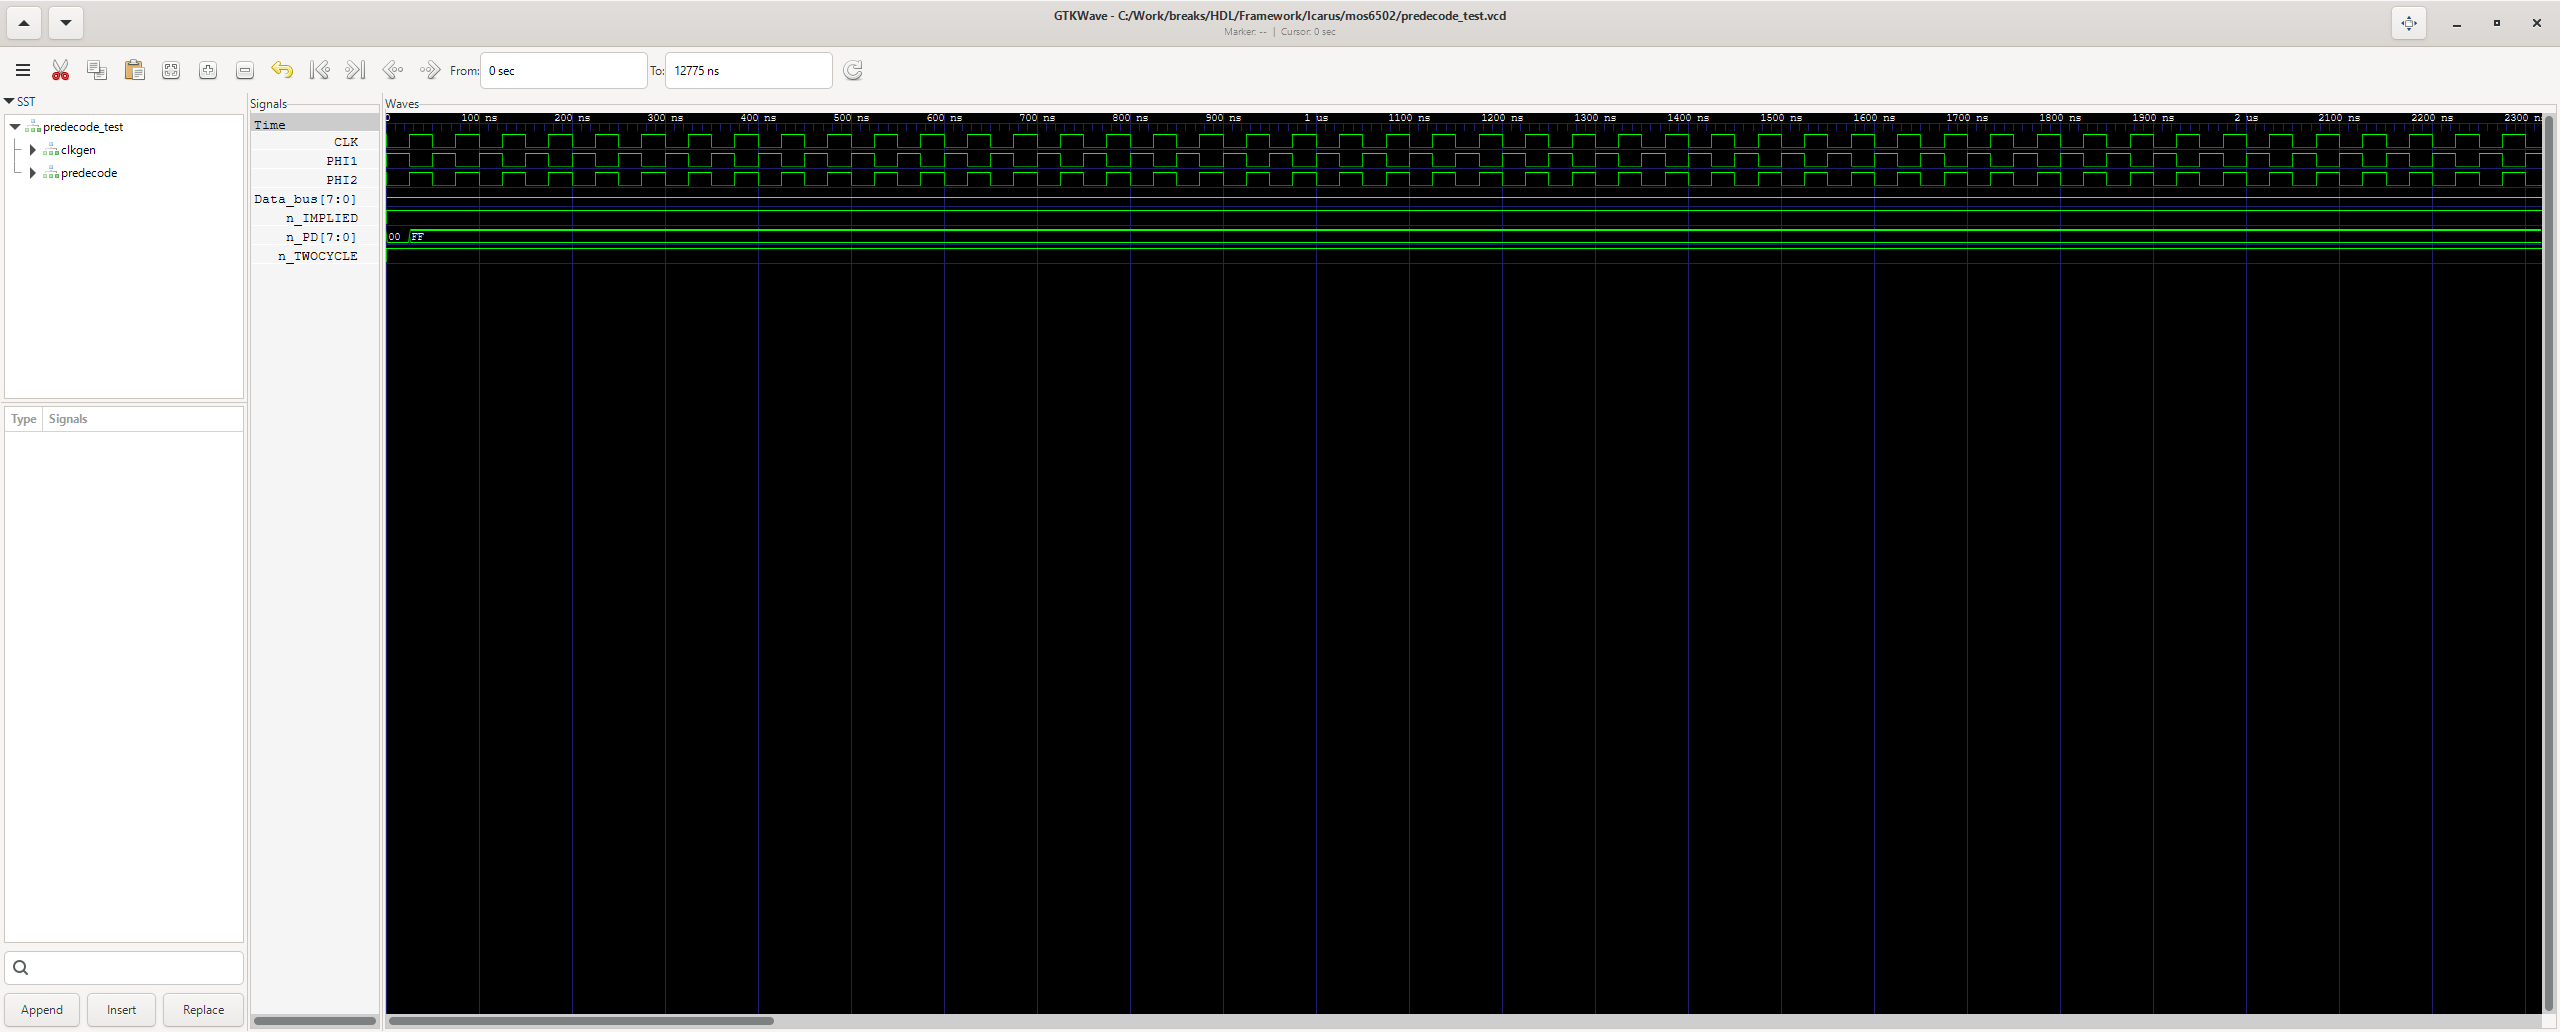
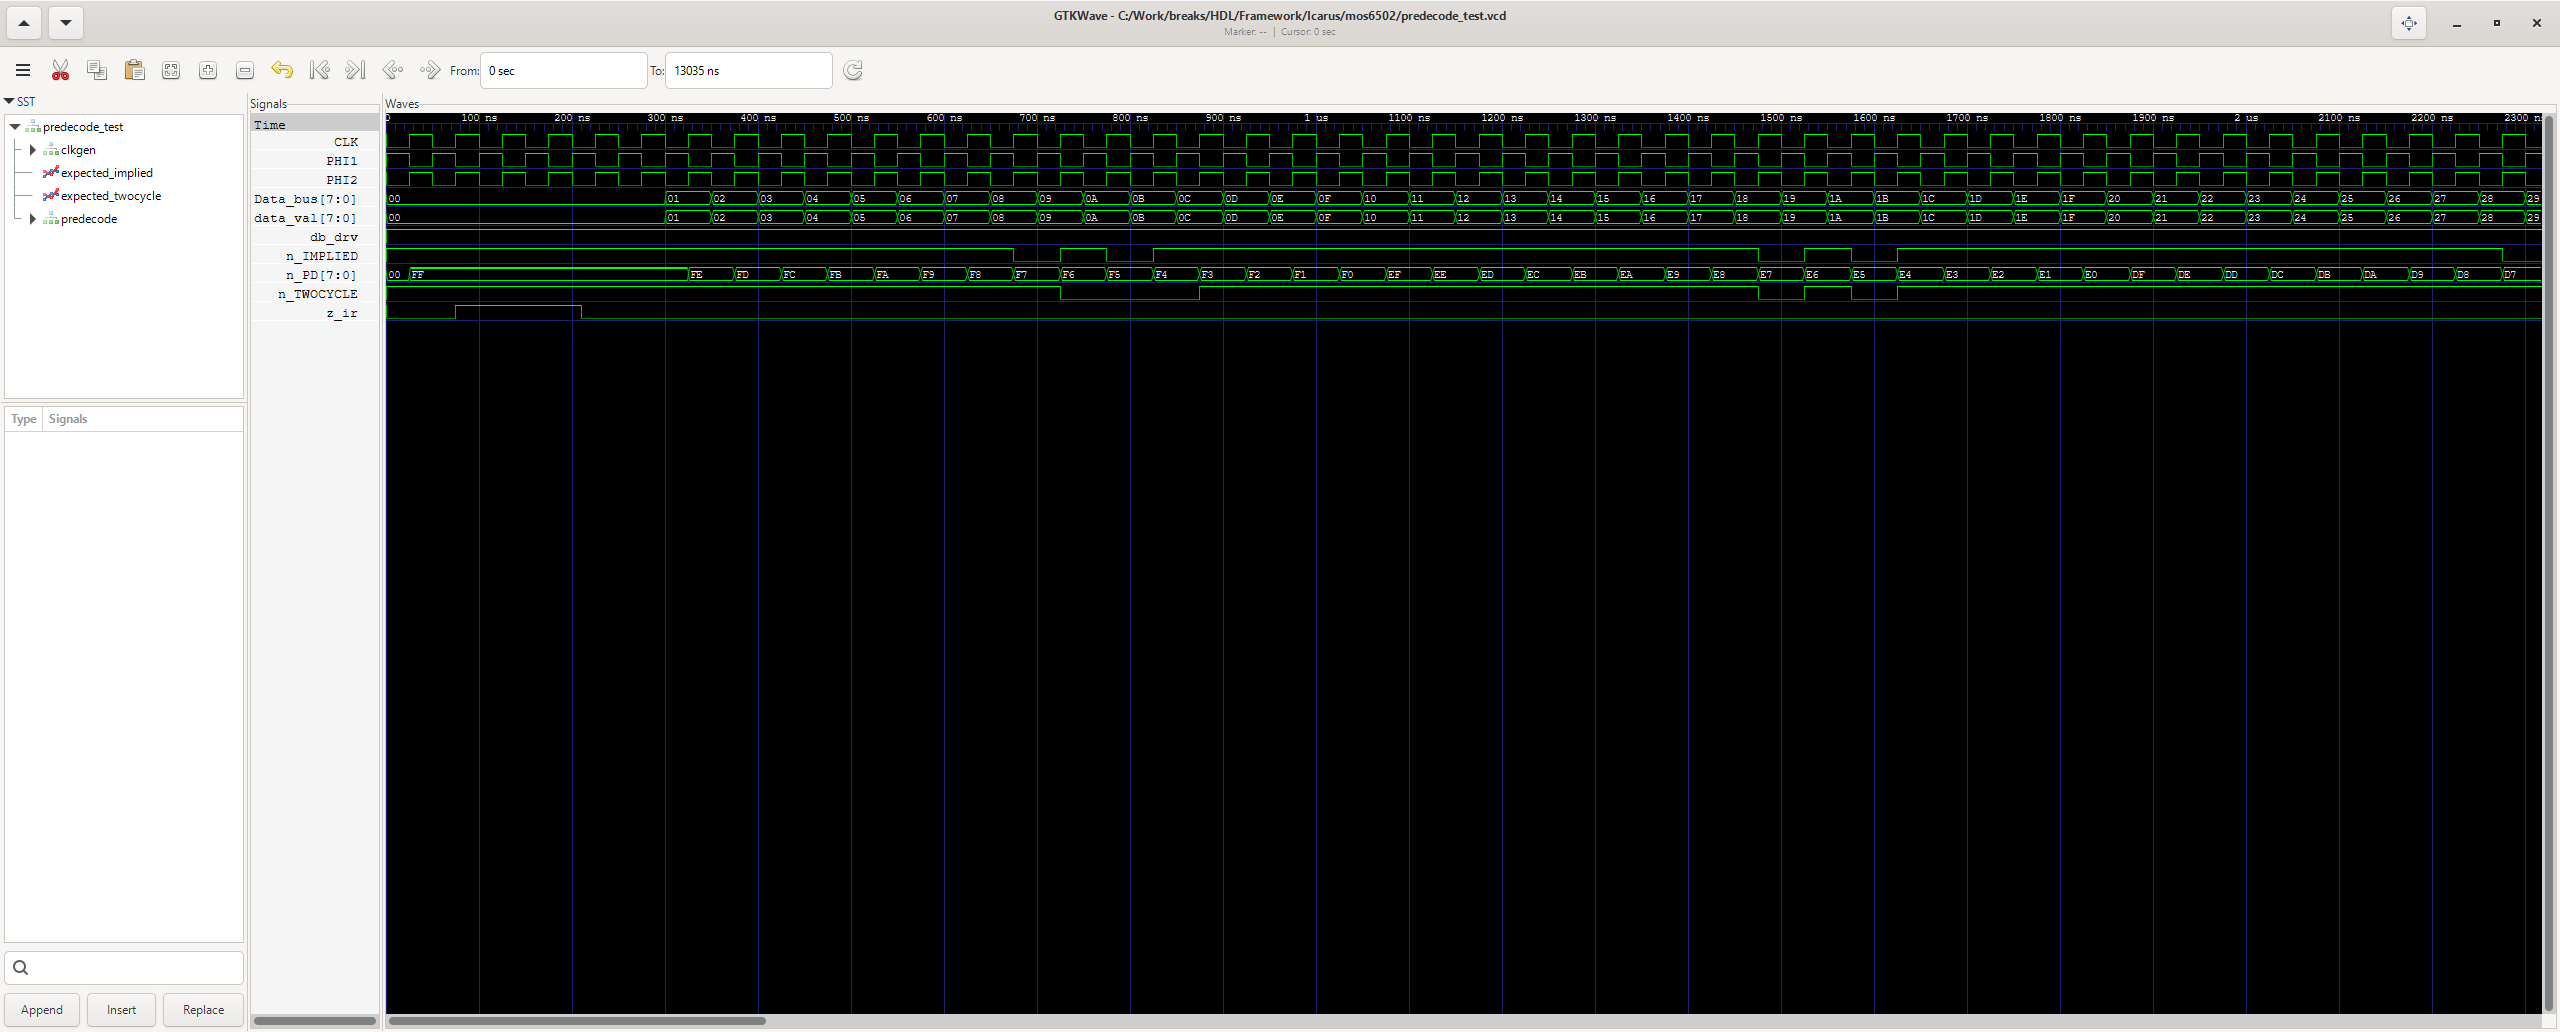
6502 tests: self-checking predecode and regs (X/Y) tests
predecode_test sweeps all 256 opcodes: PD capture during PHI2, Z_IR
clearing and the n_IMPLIED/n_TWOCYCLE NOR equations (257 checks,
TEST PASS). regs_test checks X/Y transparent load from SB and hold, the
Y_SB/X_SB store path and overwriting (9 checks, TEST PASS). Waveform
screenshots for both regenerated.

Changed region(s): [[0.0938, 0.186, 1.0, 0.3101], [0.0, 0.155, 0.0625, 0.2171]]

diff --git a/HDL/Framework/Icarus/mos6502/Waves.md b/HDL/Framework/Icarus/mos6502/Waves.md
@@ -24,7 +24,7 @@ Scripts/gtkw_capture_all.sh
 | flags_test | TEST PASS (6 checks) | ![waves/flags_test.png](waves/flags_test.png) |
 | pads_test | TEST PASS (12 checks) | ![waves/pads_test.png](waves/pads_test.png) |
 | ir_test | TEST PASS (7 checks) | ![waves/ir_test.png](waves/ir_test.png) |
-| predecode_test | waveform | ![waves/predecode_test.png](waves/predecode_test.png) |
+| predecode_test | TEST PASS (257 checks) | ![waves/predecode_test.png](waves/predecode_test.png) |
 | decoder_test | waveform (CSV dump) | ![waves/decoder_test.png](waves/decoder_test.png) |
 | extra_counter_test | TEST PASS (26 checks) | ![waves/extra_counter_test.png](waves/extra_counter_test.png) |
 | branch_logic_test | waveform | ![waves/branch_logic_test.png](waves/branch_logic_test.png) |
@@ -36,4 +36,4 @@ Scripts/gtkw_capture_all.sh
 | pc_control_test | waveform | ![waves/pc_control_test.png](waves/pc_control_test.png) |
 | regs_control_test | waveform | ![waves/regs_control_test.png](waves/regs_control_test.png) |
 | pc_test | waveform | ![waves/pc_test.png](waves/pc_test.png) |
-| regs_test | waveform | ![waves/regs_test.png](waves/regs_test.png) |
+| regs_test | TEST PASS (9 checks) | ![waves/regs_test.png](waves/regs_test.png) |
